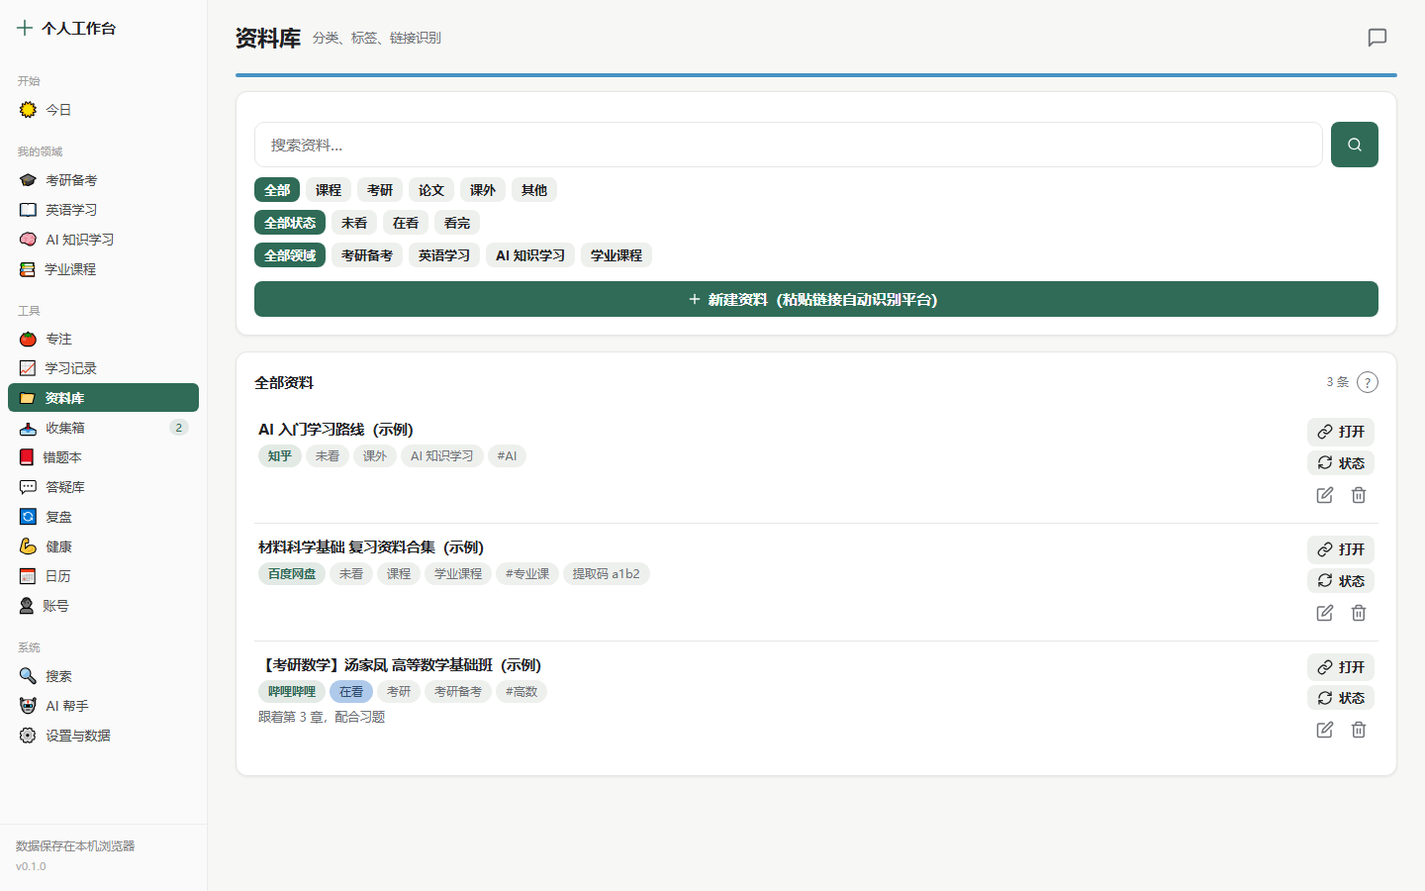
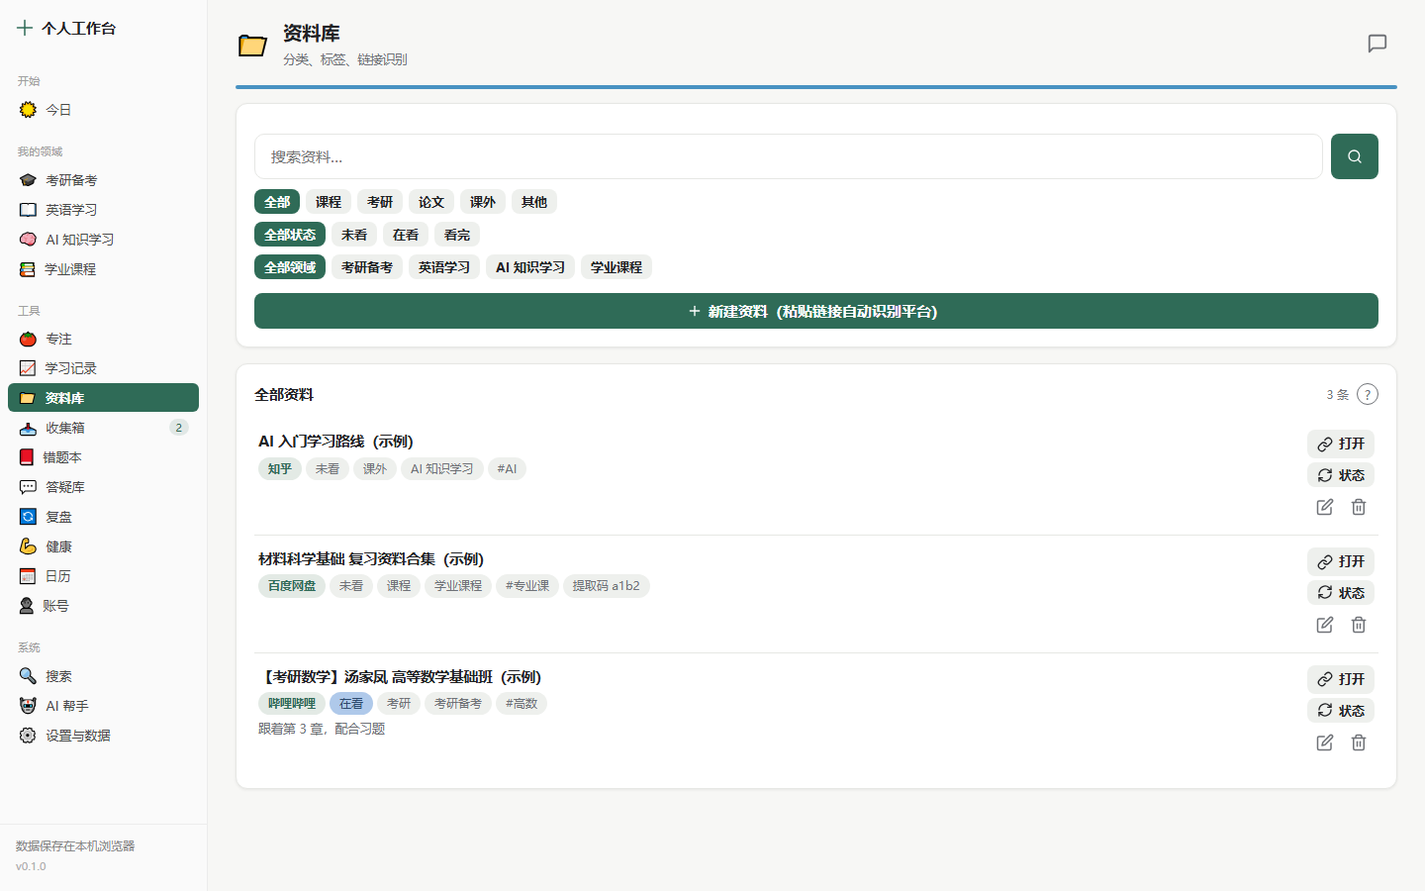
全局页面头升级（大emoji+标题+副标题）+健康三卡+学习记录emoji统计卡

diff --git a/previews/07-boards-redesign.html b/previews/07-boards-redesign.html
@@ -1,0 +1,139 @@
+<!DOCTYPE html>
+<html lang="zh-CN">
+<head>
+<meta charset="UTF-8">
+<meta name="viewport" content="width=device-width, initial-scale=1.0">
+<title>板块视觉升级预览（emoji 图标 + 暖极简）</title>
+<style>
+  * { margin: 0; padding: 0; box-sizing: border-box; }
+  body { background: #F7F7F5; font-family: "PingFang SC", "Microsoft YaHei", sans-serif; color: #202124; padding: 22px; max-width: 860px; margin: 0 auto; }
+  .sec-label { font-size: 12px; color: #9B9B93; margin: 26px 0 10px; display: flex; align-items: center; gap: 8px; }
+  .sec-label::before { content: ""; width: 14px; height: 14px; border-radius: 4px; background: #2F6B57; }
+  /* 页面头 */
+  .page-head { display: flex; align-items: center; gap: 12px; padding: 4px 2px 16px; }
+  .ph-back { width: 30px; height: 30px; border-radius: 8px; background: #fff; border: 1px solid #E6E7E4; display: flex; align-items: center; justify-content: center; font-size: 14px; color: #555; }
+  .ph-emoji { font-size: 30px; line-height: 1; }
+  .ph-txt { flex: 1; }
+  .ph-title { font-size: 20px; font-weight: 800; }
+  .ph-sub { font-size: 12.5px; color: #6F7277; margin-top: 2px; }
+  .ph-right { display: flex; gap: 8px; }
+  .chip { background: #fff; border: 1px solid #E6E7E4; border-radius: 999px; padding: 5px 12px; font-size: 12px; color: #555; }
+  /* 统计卡 */
+  .stats { display: grid; grid-template-columns: repeat(4, 1fr); gap: 10px; margin-bottom: 14px; }
+  .st { background: #fff; border: 1px solid #E6E7E4; border-radius: 14px; padding: 14px 12px; }
+  .st-emoji { font-size: 20px; }
+  .st-num { font-size: 22px; font-weight: 900; margin-top: 6px; }
+  .st-label { font-size: 11.5px; color: #6F7277; margin-top: 2px; }
+  /* 通用卡 */
+  .card { background: #fff; border: 1px solid #E6E7E4; border-radius: 14px; padding: 16px 18px; margin-bottom: 12px; box-shadow: 0 1px 3px rgba(0,0,0,.03); }
+  .c-head { display: flex; align-items: center; gap: 8px; margin-bottom: 12px; }
+  .c-emoji { font-size: 18px; }
+  .c-title { font-size: 14.5px; font-weight: 700; }
+  .c-sub { font-size: 11.5px; color: #6F7277; }
+  .c-btn { margin-left: auto; border: 1px solid #E6E7E4; border-radius: 8px; padding: 5px 10px; font-size: 12px; color: #2F6B57; background: #fff; cursor: pointer; }
+  /* 行 */
+  .row { display: flex; align-items: center; gap: 10px; padding: 11px 0; border-bottom: 1px solid #F2F2EF; }
+  .row:last-child { border: none; }
+  .row-emoji { width: 32px; height: 32px; border-radius: 9px; background: #F4F7F5; display: flex; align-items: center; justify-content: center; font-size: 16px; flex-shrink: 0; }
+  .row-main { flex: 1; }
+  .row-title { font-size: 13.5px; font-weight: 600; }
+  .row-sub { font-size: 11.5px; color: #6F7277; margin-top: 1px; }
+  .row-meta { font-size: 12px; color: #6F7277; }
+  /* 周条 */
+  .week { display: flex; gap: 6px; align-items: flex-end; height: 56px; padding: 0 2px; }
+  .wk { flex: 1; display: flex; flex-direction: column; align-items: center; gap: 4px; }
+  .wk-bar { width: 100%; max-width: 26px; border-radius: 3px; }
+  .wk-label { font-size: 10.5px; color: #9B9B93; }
+  /* 健康今日卡 */
+  .health3 { display: grid; grid-template-columns: repeat(3, 1fr); gap: 10px; }
+  .h3 { background: #fff; border: 1px solid #E6E7E4; border-radius: 14px; padding: 14px; text-align: center; }
+  .h3-emoji { font-size: 24px; }
+  .h3-label { font-size: 12px; color: #6F7277; margin-top: 6px; }
+  .h3-val { font-size: 14px; font-weight: 700; margin-top: 3px; }
+  .h3-btn { margin-top: 8px; border: 1px solid #E6E7E4; background: #fff; border-radius: 8px; padding: 4px 12px; font-size: 11.5px; color: #2F6B57; cursor: pointer; }
+  /* 设置 */
+  .set-group { margin-bottom: 12px; }
+  .sg-title { font-size: 12px; color: #9B9B93; margin-bottom: 6px; padding-left: 2px; }
+  .sg-card { background: #fff; border: 1px solid #E6E7E4; border-radius: 14px; padding: 4px 16px; }
+  .sg-row { display: flex; align-items: center; gap: 12px; padding: 12px 0; border-bottom: 1px solid #F2F2EF; }
+  .sg-row:last-child { border: none; }
+  .sg-emoji { font-size: 17px; }
+  .sg-name { font-size: 13.5px; }
+  .sg-desc { font-size: 11px; color: #9B9B93; }
+  .sg-val { margin-left: auto; font-size: 12px; color: #6F7277; }
+  @media (max-width: 768px) { .stats { grid-template-columns: repeat(2, 1fr); } .health3 { grid-template-columns: repeat(3, 1fr); } }
+</style>
+</head>
+<body>
+  <div class="sec-label">板块一 · 学习记录</div>
+  <div class="page-head">
+    <div class="ph-back">←</div>
+    <div class="ph-emoji">📈</div>
+    <div class="ph-txt"><div class="ph-title">学习记录</div><div class="ph-sub">今天也进步了一点点</div></div>
+    <div class="ph-right"><span class="chip">🔥 连续 4 天</span></div>
+  </div>
+  <div class="stats">
+    <div class="st"><div class="st-emoji">⏱</div><div class="st-num">2.5h</div><div class="st-label">今日学习</div></div>
+    <div class="st"><div class="st-emoji">✅</div><div class="st-num">6</div><div class="st-label">完成任务</div></div>
+    <div class="st"><div class="st-emoji">🍅</div><div class="st-num">3</div><div class="st-label">专注番茄</div></div>
+    <div class="st"><div class="st-emoji">📝</div><div class="st-num">12</div><div class="st-label">新增记录</div></div>
+  </div>
+  <div class="card">
+    <div class="c-head"><span class="c-emoji">📊</span><span class="c-title">本周打卡</span><span class="c-sub">近 7 天每天学习时长</span></div>
+    <div class="week">
+      <div class="wk"><div class="wk-bar" style="height:34px;background:#2F6B57;"></div><div class="wk-label">一</div></div>
+      <div class="wk"><div class="wk-bar" style="height:52px;background:#2F6B57;"></div><div class="wk-label">二</div></div>
+      <div class="wk"><div class="wk-bar" style="height:18px;background:#EDEFEC;"></div><div class="wk-label">三</div></div>
+      <div class="wk"><div class="wk-bar" style="height:40px;background:#2F6B57;"></div><div class="wk-label">四</div></div>
+      <div class="wk"><div class="wk-bar" style="height:26px;background:#2F6B57;"></div><div class="wk-label">五</div></div>
+      <div class="wk"><div class="wk-bar" style="height:10px;background:#2F6B57;"></div><div class="wk-label">六</div></div>
+      <div class="wk"><div class="wk-bar" style="height:3px;background:#EDEFEC;"></div><div class="wk-label">日</div></div>
+    </div>
+  </div>
+  <div class="card">
+    <div class="c-head"><span class="c-emoji">🕘</span><span class="c-title">今日时间线</span><span class="c-sub">8 条记录</span></div>
+    <div class="row"><div class="row-emoji">📖</div><div class="row-main"><div class="row-title">英语阅读精读</div><div class="row-sub">考研备考 · 60 分钟</div></div><span class="row-meta">09:20</span></div>
+    <div class="row"><div class="row-emoji">🍅</div><div class="row-main"><div class="row-title">高数第 3 章习题</div><div class="row-sub">专注 · 25 分钟</div></div><span class="row-meta">08:30</span></div>
+    <div class="row"><div class="row-emoji">📕</div><div class="row-main"><div class="row-title">记录错题：极限计算</div><div class="row-sub">错题本</div></div><span class="row-meta">昨天</span></div>
+  </div>
+
+  <div class="sec-label">板块二 · 健康</div>
+  <div class="page-head">
+    <div class="ph-back">←</div>
+    <div class="ph-emoji">💪</div>
+    <div class="ph-txt"><div class="ph-title">健康</div><div class="ph-sub">健康是学习的第一步</div></div>
+    <div class="ph-right"><span class="chip">💤 7.5h 昨晚</span></div>
+  </div>
+  <div class="health3">
+    <div class="h3"><div class="h3-emoji">🌙</div><div class="h3-label">睡眠</div><div class="h3-val">7.5 小时</div><button class="h3-btn">记录</button></div>
+    <div class="h3"><div class="h3-emoji">🏃</div><div class="h3-label">运动</div><div class="h3-val">跳绳 30 分</div><button class="h3-btn">修改</button></div>
+    <div class="h3"><div class="h3-emoji">⚡</div><div class="h3-label">今日状态</div><div class="h3-val">精力充沛</div><button class="h3-btn">修改</button></div>
+  </div>
+  <div class="card">
+    <div class="c-head"><span class="c-emoji">📋</span><span class="c-title">本周健康概览</span><span class="c-sub">最近 7 天记录</span></div>
+    <div class="stats" style="grid-template-columns:repeat(3,1fr);margin:0;">
+      <div class="st"><div class="st-emoji">🌙</div><div class="st-num">7.2h</div><div class="st-label">平均睡眠</div></div>
+      <div class="st"><div class="st-emoji">🏃</div><div class="st-num">4 天</div><div class="st-label">运动天数</div></div>
+      <div class="st"><div class="st-emoji">⚡</div><div class="st-num">12 次</div><div class="st-label">状态记录</div></div>
+    </div>
+  </div>
+
+  <div class="sec-label">板块三 · 设置与数据</div>
+  <div class="set-group">
+    <div class="sg-title">外观</div>
+    <div class="sg-card">
+      <div class="sg-row"><span class="sg-emoji">🔤</span><span class="sg-name">字体大小</span><span class="sg-val">标准 ›</span></div>
+      <div class="sg-row"><span class="sg-emoji">🎨</span><span class="sg-name">页面背景</span><span class="sg-val">默认 ›</span></div>
+      <div class="sg-row"><span class="sg-emoji">🌓</span><span class="sg-name">主题色</span><span class="sg-val">默认 ›</span></div>
+    </div>
+  </div>
+  <div class="set-group">
+    <div class="sg-title">数据</div>
+    <div class="sg-card">
+      <div class="sg-row"><span class="sg-emoji">💾</span><span class="sg-name">数据备份 / 导出</span><span class="sg-val">›</span></div>
+      <div class="sg-row"><span class="sg-emoji">📥</span><span class="sg-name">导入备份</span><span class="sg-val">›</span></div>
+      <div class="sg-row"><span class="sg-emoji">🗑</span><span class="sg-name">清空所有数据</span><span class="sg-val">›</span></div>
+    </div>
+  </div>
+</body>
+</html>

diff --git a/app.js b/app.js
@@ -483,49 +483,50 @@
   }
 
   function viewTitle(view) {
-    if (view === "today") return { t: "今日", s: "每天从这里开始" };
+    if (view === "today") return { e: "☀", t: "今日", s: "每天从这里开始" };
     if (view.indexOf("domain:") === 0) {
       var dm = data.domains.filter(function (x) { return x.id === view.slice(7); })[0];
-      return dm ? { t: dm.name, s: dm.type === "courses" ? "课程与作业" : dm.type === "paper" ? "论文进度" : "领域概览" } : { t: "领域", s: "" };
+      var e = dm && dm.id === "kaoyan" ? "🎓" : dm && dm.id === "cet" ? "📖" : dm && dm.id === "ai" ? "🧠" : dm && dm.id === "courses" ? "📚" : "📁";
+      return dm ? { e: e, t: dm.name, s: dm.type === "courses" ? "课程与作业" : dm.type === "paper" ? "论文进度" : "领域概览" } : { e: "📁", t: "领域", s: "" };
     }
     var map = {
-      library: { t: "资料库", s: "分类、标签、链接识别" },
-      inbox: { t: "收集箱", s: "先收着，稍后整理" },
-      mistakes: { t: "错题本", s: "错题是复习的宝藏" },
-      "mk-topics": { t: "错题 · 专题", s: "科目下的专题" },
-      "mk-types": { t: "错题 · 考点类型", s: "专题下的考点" },
-      "mk-list": { t: "错题 · 列表", s: "该考点下的错题" },
-      qa: { t: "答疑库", s: "问过的题不再错" },
-      reviews: { t: "复盘", s: "让进步发生" },
-      health: { t: "健康", s: "学习的第一步" },
-      focus: { t: "专注", s: "番茄钟计时" },
-      activity: { t: "学习记录", s: "自动汇总你今天干了什么" },
-      calendar: { t: "日历", s: "重要日期一目了然" },
-      accounts: { t: "账号", s: "管理我的平台账号" },
-      search: { t: "搜索", s: "一次搜遍全部内容" },
-      ai: { t: "AI 帮手", s: "辅助学习与整理" },
-      settings: { t: "设置与数据", s: "说明、备份、更新日志" },
-      "ky-subjects": { t: "科目详情", s: "科目任务统计" },
-      "ky-tasks": { t: "全部领域任务", s: "三类任务管理" },
-      "ky-weekly": { t: "本周计划", s: "周计划管理" },
-      "ky-files": { t: "备考资料库", s: "关联资料" },
-      "ky-english": { t: "英语学科页", s: "精读/作文/翻译" },
-      "ky-math": { t: "数学学科页", s: "公式/套卷/粗心账本" },
-      "ky-politics": { t: "政治学科页", s: "知识点/帽子题/时政" },
-      "ky-major": { t: "专业课学科页", s: "笔记/挖空/大纲" },
-      "ky-word": { t: "单词学科页", s: "真题生词/僻义/替换词" },
-      "ky-stats": { t: "统计仪表盘", s: "所有图表与进度" },
-      "tasks-all": { t: "任务管理专区", s: "全部任务" },
-      "cet-vocab": { t: "词汇专区", s: "生词本与记忆复习" },
-      "cet-listening": { t: "听力专区", s: "真题听力与精听" },
-      "cet-reading": { t: "阅读专区", s: "真题阅读与长难句" },
-      "cet-writing": { t: "写作专区", s: "范文模板与 AI 批改" },
-      "cet-translation": { t: "翻译专区", s: "翻译练习与句式积累" },
-      "cet-speaking": { t: "口语专区", s: "AI 口语对话练习" },
-      "cet-wordbook": { t: "生词本", s: "完整生词管理" },
-      "cet-exams": { t: "考试管理", s: "新增/归档/删除考试" },
-      "cet-stats": { t: "英语统计", s: "学习数据" },
-      "ai-history": { t: "AI 学习历史", s: "历史学习资料库" }
+      library: { e: "📁", t: "资料库", s: "分类、标签、链接识别" },
+      inbox: { e: "📥", t: "收集箱", s: "先收着，稍后整理" },
+      mistakes: { e: "📕", t: "错题本", s: "错题是复习的宝藏" },
+      "mk-topics": { e: "📕", t: "错题 · 专题", s: "科目下的专题" },
+      "mk-types": { e: "📕", t: "错题 · 考点类型", s: "专题下的考点" },
+      "mk-list": { e: "📕", t: "错题 · 列表", s: "该考点下的错题" },
+      qa: { e: "💬", t: "答疑库", s: "问过的题不再错" },
+      reviews: { e: "🔄", t: "复盘", s: "让进步发生" },
+      health: { e: "💪", t: "健康", s: "学习的第一步" },
+      focus: { e: "🍅", t: "专注", s: "番茄钟计时" },
+      activity: { e: "📈", t: "学习记录", s: "自动汇总你今天干了什么" },
+      calendar: { e: "📅", t: "日历", s: "重要日期一目了然" },
+      accounts: { e: "👤", t: "账号", s: "管理我的平台账号" },
+      search: { e: "🔍", t: "搜索", s: "一次搜遍全部内容" },
+      ai: { e: "🤖", t: "AI 帮手", s: "辅助学习与整理" },
+      settings: { e: "⚙", t: "设置与数据", s: "说明、备份、更新日志" },
+      "ky-subjects": { e: "🎓", t: "科目详情", s: "科目任务统计" },
+      "ky-tasks": { e: "🎓", t: "全部领域任务", s: "三类任务管理" },
+      "ky-weekly": { e: "🎓", t: "本周计划", s: "周计划管理" },
+      "ky-files": { e: "🎓", t: "备考资料库", s: "关联资料" },
+      "ky-english": { e: "📖", t: "英语学科页", s: "精读/作文/翻译" },
+      "ky-math": { e: "🎓", t: "数学学科页", s: "公式/套卷/粗心账本" },
+      "ky-politics": { e: "🎓", t: "政治学科页", s: "知识点/帽子题/时政" },
+      "ky-major": { e: "🎓", t: "专业课学科页", s: "笔记/挖空/大纲" },
+      "ky-word": { e: "📖", t: "单词学科页", s: "真题生词/僻义/替换词" },
+      "ky-stats": { e: "🎓", t: "统计仪表盘", s: "所有图表与进度" },
+      "tasks-all": { e: "📋", t: "任务管理专区", s: "全部任务" },
+      "cet-vocab": { e: "📖", t: "词汇专区", s: "生词本与记忆复习" },
+      "cet-listening": { e: "🎧", t: "听力专区", s: "真题听力与精听" },
+      "cet-reading": { e: "📖", t: "阅读专区", s: "真题阅读与长难句" },
+      "cet-writing": { e: "✍", t: "写作专区", s: "范文模板与 AI 批改" },
+      "cet-translation": { e: "🌐", t: "翻译专区", s: "翻译练习与句式积累" },
+      "cet-speaking": { e: "🗣", t: "口语专区", s: "AI 口语对话练习" },
+      "cet-wordbook": { e: "📖", t: "生词本", s: "完整生词管理" },
+      "cet-exams": { e: "🎓", t: "考试管理", s: "新增/归档/删除考试" },
+      "cet-stats": { e: "📖", t: "英语统计", s: "学习数据" },
+      "ai-history": { e: "🤖", t: "AI 学习历史", s: "历史学习资料库" }
     };
     return map[view] || { t: view, s: "" };
   }
@@ -588,7 +589,7 @@
     var wrap = $id("viewWrap");
     var view = W.ui.view;
     var v = viewTitle(view);
-    $id("topbar").innerHTML = "<h1>" + v.t + '</h1><span class="topbar-sub">' + v.s + "</span>" +
+    $id("topbar").innerHTML = '<span class="ph-emoji">' + (v.e || "") + '</span><div class="ph-txt"><h1>' + v.t + '</h1><span class="topbar-sub">' + v.s + "</span></div>" +
       '<span class="topbar-help"><button class="icon-btn lg" data-action="help" data-help="' + view + '" title="帮助">' + ICONS.help + "</button></span>";
 
     var html = "";

diff --git a/views.js b/views.js
@@ -1609,19 +1609,15 @@
 
     html += '<div class="today-grid">';
 
-    html += card(cardHead("今日健康", "记录当天状态", "health"),
-      '<div class="list">' +
-      '<div class="list-item"><div class="li-main"><div class="li-title" style="font-weight:400;">睡眠</div>' +
-      '<div class="li-sub">' + (sleep ? "睡了 " + fmtMin(sleep.minutes) + "（" + sleep.bed + " → " + sleep.wake + "）" : "还没记录") + "</div></div>" +
-      '<button class="btn small plain" data-action="log-sleep">' + ic("moon") + (sleep ? "修改" : "记录") + "</button></div>" +
-      '<div class="list-item"><div class="li-main"><div class="li-title" style="font-weight:400;">运动</div>' +
-      '<div class="li-sub">' + (sport ? "已运动：" + esc(sport.type) : "还没记录") + "</div></div>" +
-      '<button class="btn small plain" data-action="log-sport">' + ic("activity") + (sport ? "修改" : "记录") + "</button></div>" +
-      '<div class="list-item"><div class="li-main"><div class="li-title" style="font-weight:400;">今日状态</div>' +
-      '<div class="li-sub">' + (state ? "精力：" + esc(state.level) : "还没记录") + "</div></div>" +
-      '<button class="btn small plain" data-action="log-state">' + ic("sun") + (state ? "修改" : "记录") + "</button></div>" +
+    html += '<div class="health3">' +
+      '<div class="h3"><div class="h3-emoji">🌙</div><div class="h3-label">睡眠</div><div class="h3-val">' + (sleep ? fmtMin(sleep.minutes) + "（" + sleep.bed + "→" + sleep.wake + "）" : "还没记录") + "</div>" +
+      '<button class="h3-btn" data-action="log-sleep">' + (sleep ? "修改" : "记录") + "</button></div>" +
+      '<div class="h3"><div class="h3-emoji">🏃</div><div class="h3-label">运动</div><div class="h3-val">' + (sport ? esc(sport.type) : "还没记录") + "</div>" +
+      '<button class="h3-btn" data-action="log-sport">' + (sport ? "修改" : "记录") + "</button></div>" +
+      '<div class="h3"><div class="h3-emoji">⚡</div><div class="h3-label">今日状态</div><div class="h3-val">' + (state ? "精力：" + esc(state.level) : "还没记录") + "</div>" +
+      '<button class="h3-btn" data-action="log-state">' + (state ? "修改" : "记录") + "</button></div>" +
       "</div>" +
-      '<div class="li-sub" style="margin-top:10px;">记录睡眠和状态后，每周复盘会自动统计健康情况。</div>');
+      '<div class="li-sub" style="margin-top:10px;">记录睡眠和状态后，每周复盘会自动统计健康情况。</div>';
 
     html += "</div>";
 
@@ -1630,10 +1626,10 @@
     var weekSport = (h.sport || []).slice(-7);
     var sleepAvg = weekSleep.length ? Math.round(weekSleep.reduce(function (s, x) { return s + (x.minutes || 0); }, 0) / weekSleep.length) : 0;
     html += card(cardHead("本周健康概览", "最近 7 天记录", "health-stats"),
-      '<div class="grid grid-3">' +
-      '<div><div class="stat-num">' + (sleepAvg > 0 ? fmtMin(sleepAvg) : "暂无") + "</div><div class=\"stat-label\">平均睡眠（近 " + (weekSleep.length ? weekSleep.length + " 条" : "无记录") + "）</div></div>" +
-      '<div><div class="stat-num">' + weekSport.length + "</div><div class=\"stat-label\">近 7 天运动天数</div></div>" +
-      '<div><div class="stat-num">' + (h.state || []).length + "</div><div class=\"stat-label\">状态记录总次数</div></div>" +
+      '<div class="stats3">' +
+      '<div class="st3"><div class="st3-emoji">🌙</div><div class="st3-num">' + (sleepAvg > 0 ? fmtMin(sleepAvg) : "暂无") + "</div><div class=\"st3-label\">平均睡眠</div></div>" +
+      '<div class="st3"><div class="st3-emoji">🏃</div><div class="st3-num">' + weekSport.length + " 天</div><div class=\"st3-label\">运动天数</div></div>" +
+      '<div class="st3"><div class="st3-emoji">⚡</div><div class="st3-num">' + (h.state || []).length + " 次</div><div class=\"st3-label\">状态记录</div></div>" +
       "</div>" +
       '<div class="li-sub" style="margin-top:10px;">健康建议：睡眠不足会影响记忆巩固，长期备考请优先保证睡眠；久坐每小时起来活动 5 分钟。</div>');
 
@@ -1841,12 +1837,12 @@
     var taskDone = entries.filter(function (e) { return e.type === "任务"; }).length;
     var addCount = entries.filter(function (e) { return ["资料", "答疑", "错题", "生词"].indexOf(e.type) >= 0; }).length;
 
-    /* 统计卡 */
-    html += '<div class="grid grid-4">' +
-      '<div class="card tint-green"><div class="stat-num">' + Math.round(todayMin / 60) + '<span style="font-size:13px;"> 小时</span></div><div class="stat-label">今日学习时长</div></div>' +
-      '<div class="card tint-blue"><div class="stat-num">' + taskDone + '</div><div class="stat-label">完成任务</div></div>' +
-      '<div class="card tint-yellow"><div class="stat-num">' + entries.filter(function (e) { return e.type === "专注"; }).length + '</div><div class="stat-label">专注番茄</div></div>' +
-      '<div class="card tint-pink"><div class="stat-num">' + addCount + '</div><div class="stat-label">新增记录</div></div>' +
+    /* 统计卡（emoji 风格） */
+    html += '<div class="stats4">' +
+      '<div class="st4"><div class="st4-emoji">⏱</div><div class="st4-num">' + Math.round(todayMin / 60) + '<span style="font-size:13px;"> 小时</span></div><div class="st4-label">今日学习</div></div>' +
+      '<div class="st4"><div class="st4-emoji">✅</div><div class="st4-num">' + taskDone + "</div><div class=\"st4-label\">完成任务</div></div>" +
+      '<div class="st4"><div class="st4-emoji">🍅</div><div class="st4-num">' + entries.filter(function (e) { return e.type === "专注"; }).length + "</div><div class=\"st4-label\">专注番茄</div></div>" +
+      '<div class="st4"><div class="st4-emoji">📝</div><div class="st4-num">' + addCount + "</div><div class=\"st4-label\">新增记录</div></div>" +
       "</div>";
 
     /* 本周打卡概览（7 天点条） */

diff --git a/styles.css b/styles.css
@@ -302,9 +302,30 @@ h1, h2, h3, h4 { font-weight: 700; }
   display: flex; align-items: center; gap: 12px;
   padding: 18px 28px 6px;
 }
-.topbar h1 { font-size: 22px; }
-.topbar-sub { font-size: 13px; color: var(--sub); }
+.ph-emoji { font-size: 27px; line-height: 1; flex-shrink: 0; }
+.ph-txt { flex: 1; min-width: 0; }
+.ph-txt h1 { font-size: 19px; }
+.topbar-sub { display: block; font-size: 12.5px; color: var(--sub); margin-top: 2px; }
 .topbar-help { margin-left: auto; }
+
+/* ===== 健康三卡 + 统计卡（emoji 风格） ===== */
+.health3 { display: grid; grid-template-columns: repeat(3, 1fr); gap: 10px; }
+.h3 { background: #fff; border: 1px solid var(--border); border-radius: 14px; padding: 14px; text-align: center; }
+.h3-emoji { font-size: 24px; }
+.h3-label { font-size: 12px; color: var(--sub); margin-top: 6px; }
+.h3-val { font-size: 13.5px; font-weight: 700; margin-top: 3px; line-height: 1.4; }
+.h3-btn { margin-top: 8px; border: 1px solid var(--border); background: #fff; border-radius: 8px; padding: 4px 14px; font-size: 11.5px; color: var(--accent); cursor: pointer; }
+.stats3 { display: grid; grid-template-columns: repeat(3, 1fr); gap: 10px; }
+.st3 { background: #fff; border: 1px solid var(--border); border-radius: 14px; padding: 12px; text-align: center; }
+.st3-emoji { font-size: 18px; }
+.st3-num { font-size: 18px; font-weight: 800; color: var(--accent); margin-top: 4px; }
+.st3-label { font-size: 11.5px; color: var(--sub); margin-top: 2px; }
+.stats4 { display: grid; grid-template-columns: repeat(4, 1fr); gap: 10px; margin-bottom: 12px; }
+.st4 { background: #fff; border: 1px solid var(--border); border-radius: 14px; padding: 14px 12px; }
+.st4-emoji { font-size: 20px; }
+.st4-num { font-size: 20px; font-weight: 900; margin-top: 5px; }
+.st4-label { font-size: 11.5px; color: var(--sub); margin-top: 2px; }
+@media (max-width: 768px) { .stats4 { grid-template-columns: repeat(2, 1fr); } .health3 { grid-template-columns: repeat(3, 1fr); } .stats3 { grid-template-columns: repeat(3, 1fr); } }
 
 .view-wrap { padding: 10px 28px 40px; flex: 1; }
 

diff --git a/service-worker.js b/service-worker.js
@@ -3,7 +3,7 @@
    - HTML 页面：优先网络（每次打开都是最新版），网络失败时用缓存（离线可用）
    - 静态资源（css/js）：先读缓存（秒开），后台拉取更新缓存
    - 发布新版本时更新 CACHE 版本号，旧缓存自动清理，一次刷新即生效 */
-var CACHE = "wb-cache-v036";
+var CACHE = "wb-cache-v037";
 var ASSETS = [
   "./",
   "./index.html",
